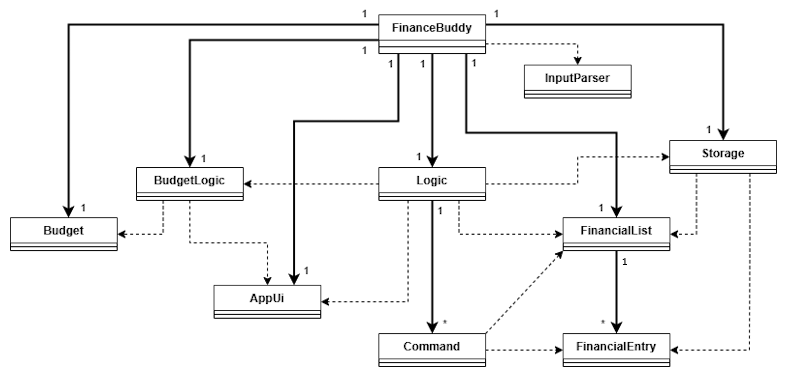
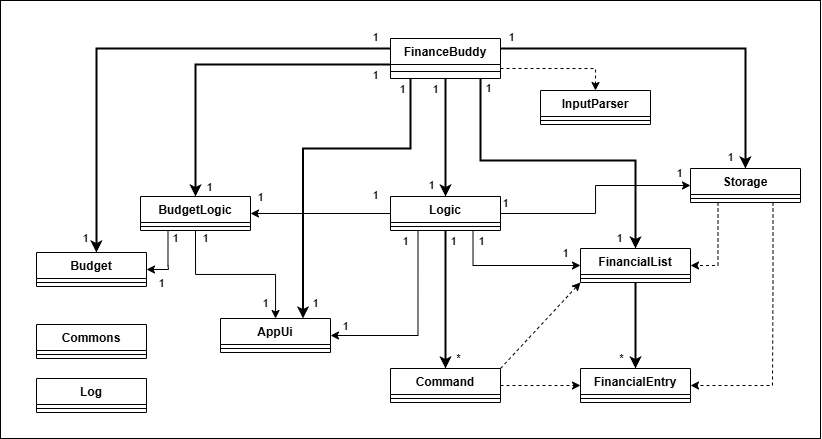
Update Overview and Implementation Section of DG

diff --git a/docs/DeveloperGuide.md b/docs/DeveloperGuide.md
@@ -55,13 +55,16 @@ Finance Buddy uses the following tools for development:
 
 ## Design and Implementation
 
-The simplified UML class diagram below provides an overview of the classes and their interactions with each other. 
+The heavily simplified UML class diagram below provides an overview of the classes and their interactions with each other. 
 
 <img src="UML/overallArchi.png" alt="overall archi" width="auto" height="300">
 
 
 In the above diagram, Command and FinancialEntry are representative of the subclasses of 
 the `Command` and `FinancialEntry` classes, which are elaborated on in their respective sections.
+
+The `Commons` class contains various String constants and methods commonly used by the other classes,
+while the `Log` class contains a logger to facilitate logging in methods of other classes.
 
 The high-level overview of the program is shown in the diagram below as well.
 
